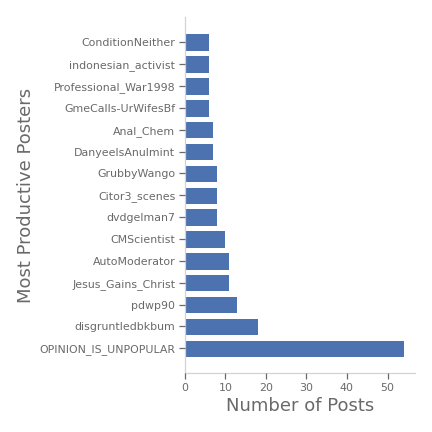
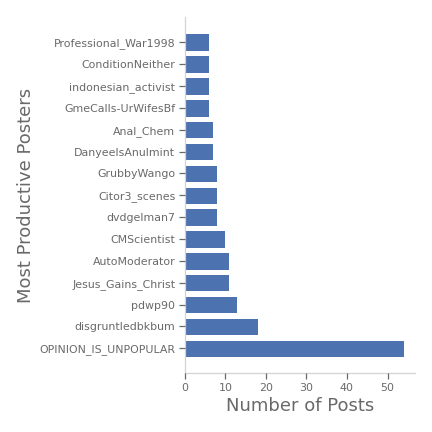
whoops

Changed region(s): [[0.1204, 0.0903, 0.4213, 0.2106]]

diff --git a/wsba.py b/wsba.py
@@ -559,11 +559,11 @@ def fig_field_by_field(fielda='score',fieldb='score',fielda_max=None,logx=False,
 
     if spearman:
         spearman_rho, spearman_p = stats.spearmanr(a=fielda_data, b=fieldb_data)
-        print(f'spearman_rho={spearman_rho}   spearman_p={spearman_p}')
+        #print(f'spearman_rho={spearman_rho}   spearman_p={spearman_p}')
     
     if pearson:
         pearson_r, pearson_p = stats.pearsonr(x=fielda_data, y=fieldb_data)
-        print(f'pearson_r={pearson_r}   pearson_p={pearson_p}')
+        #print(f'pearson_r={pearson_r}   pearson_p={pearson_p}')
     
     lr_m=0
     lr_b=0
@@ -580,8 +580,8 @@ def fig_field_by_field(fielda='score',fieldb='score',fielda_max=None,logx=False,
     ax.scatter(fielda_data, fieldb_data, alpha=.5)
     if regression:
         ax.plot([min(fielda_data),max(fielda_data)], [lr_m * min(fielda_data) + lr_b,lr_m * max(fielda_data) + lr_b],label=f'y={round(lr_m,2)}x+{round(lr_b)}, r={round(lr_r,2)} p={round(lr_p,4)}',c='red',linestyle='--')
-        print([min(fielda_data),max(fielda_data)])
-        print([lr_m * min(fielda_data) + lr_b,lr_m * max(fielda_data) + lr_b])
+        #print([min(fielda_data),max(fielda_data)])
+        #print([lr_m * min(fielda_data) + lr_b,lr_m * max(fielda_data) + lr_b])
     ax.set_xlabel(fielda.capitalize())
     ax.set_ylabel(fieldb.capitalize())
     

diff --git a/README.md b/README.md
@@ -45,17 +45,17 @@ A total of 1485 submission authors are represented in the data. The plot below s
 | <a href=https://www.reddit.com/user/OPINION_IS_UNPOPULAR/>OPINION_IS_UNPOPULAR</a> | 54 |
 | <a href=https://www.reddit.com/user/disgruntledbkbum/>disgruntledbkbum</a> | 18 |
 | <a href=https://www.reddit.com/user/pdwp90/>pdwp90</a> | 13 |
-| <a href=https://www.reddit.com/user/AutoModerator/>AutoModerator</a> | 11 |
 | <a href=https://www.reddit.com/user/Jesus_Gains_Christ/>Jesus_Gains_Christ</a> | 11 |
+| <a href=https://www.reddit.com/user/AutoModerator/>AutoModerator</a> | 11 |
 | <a href=https://www.reddit.com/user/CMScientist/>CMScientist</a> | 10 |
 | <a href=https://www.reddit.com/user/dvdgelman7/>dvdgelman7</a> | 8 |
-| <a href=https://www.reddit.com/user/GrubbyWango/>GrubbyWango</a> | 8 |
 | <a href=https://www.reddit.com/user/Citor3_scenes/>Citor3_scenes</a> | 8 |
-| <a href=https://www.reddit.com/user/Anal_Chem/>Anal_Chem</a> | 7 |
+| <a href=https://www.reddit.com/user/GrubbyWango/>GrubbyWango</a> | 8 |
 | <a href=https://www.reddit.com/user/DanyeelsAnulmint/>DanyeelsAnulmint</a> | 7 |
+| <a href=https://www.reddit.com/user/Anal_Chem/>Anal_Chem</a> | 7 |
 | <a href=https://www.reddit.com/user/GmeCalls-UrWifesBf/>GmeCalls-UrWifesBf</a> | 6 |
-| <a href=https://www.reddit.com/user/ConditionNeither/>ConditionNeither</a> | 6 |
 | <a href=https://www.reddit.com/user/indonesian_activist/>indonesian_activist</a> | 6 |
+| <a href=https://www.reddit.com/user/ConditionNeither/>ConditionNeither</a> | 6 |
 | <a href=https://www.reddit.com/user/Professional_War1998/>Professional_War1998</a> | 6 |
 
 # Some Initial Observations
@@ -120,30 +120,22 @@ One might assume that older submissions tend to have more upvotes and hence, a h
 These figures show the relationship between a submission's score and the number of comments it's received. The figure seems to show three clusters of data points. For now, let's focus on those happening in scores less than 2000, as this seems to be the majority of submissions (83%) and it looks like there might be a postive correlation between the two.
 
 regression; pearson r:  0.6789328090847496 7.114265951196409e-261 0.3333244146926099
-[0, 8340]
-[51.769238697059336, 112897.77905108444]
 ![Figure](figures/num_comments_by_scoreNone.png)
 <Figure size 432x432 with 1 Axes>
 
 regression; pearson r:  0.7135659914644709 3.5545688742525146e-297 0.46571265092210234
-[0, 1896]
-[-928.4388458996114, 38355.67758863208]
 ![Figure](figures/num_comments_by_scoreNone.png)
 <Figure size 432x432 with 1 Axes>
 
 Excluding scores greater than 2000, we can see a clear positive relationship between score and the number of comments. This relationship can be see even more clearly when the data are plotted in log-log coordinates:
 
 regression; pearson r:  0.7135659914644709 3.5545688742525146e-297 0.46571265092210234
-[0, 1896]
-[-928.4388458996114, 38355.67758863208]
 ![Figure](figures/num_comments_by_score_logx_logyNone.png)
 <Figure size 432x432 with 1 Axes>
 
 And adding in the entire range of data, we can see the effect of the previously excluded data is negligable on that relationhip:
 
 regression; pearson r:  0.24174684929350584 1.4904527973836595e-27 0.04918163036246603
-[0, 69534]
-[2243.2197529718733, 40010.750328794165]
 ![Figure](figures/num_comments_by_score_logx_logyNone.png)
 <Figure size 432x432 with 1 Axes>
 
